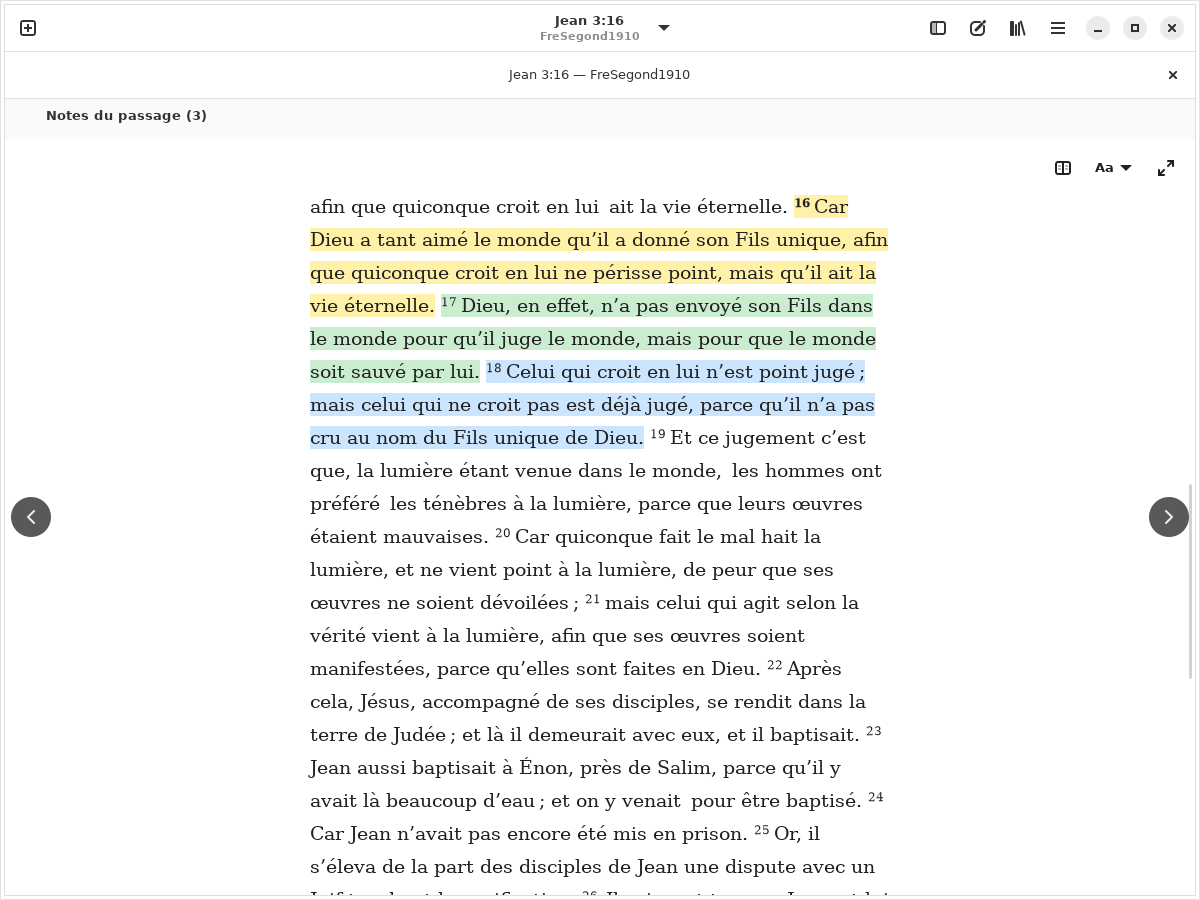
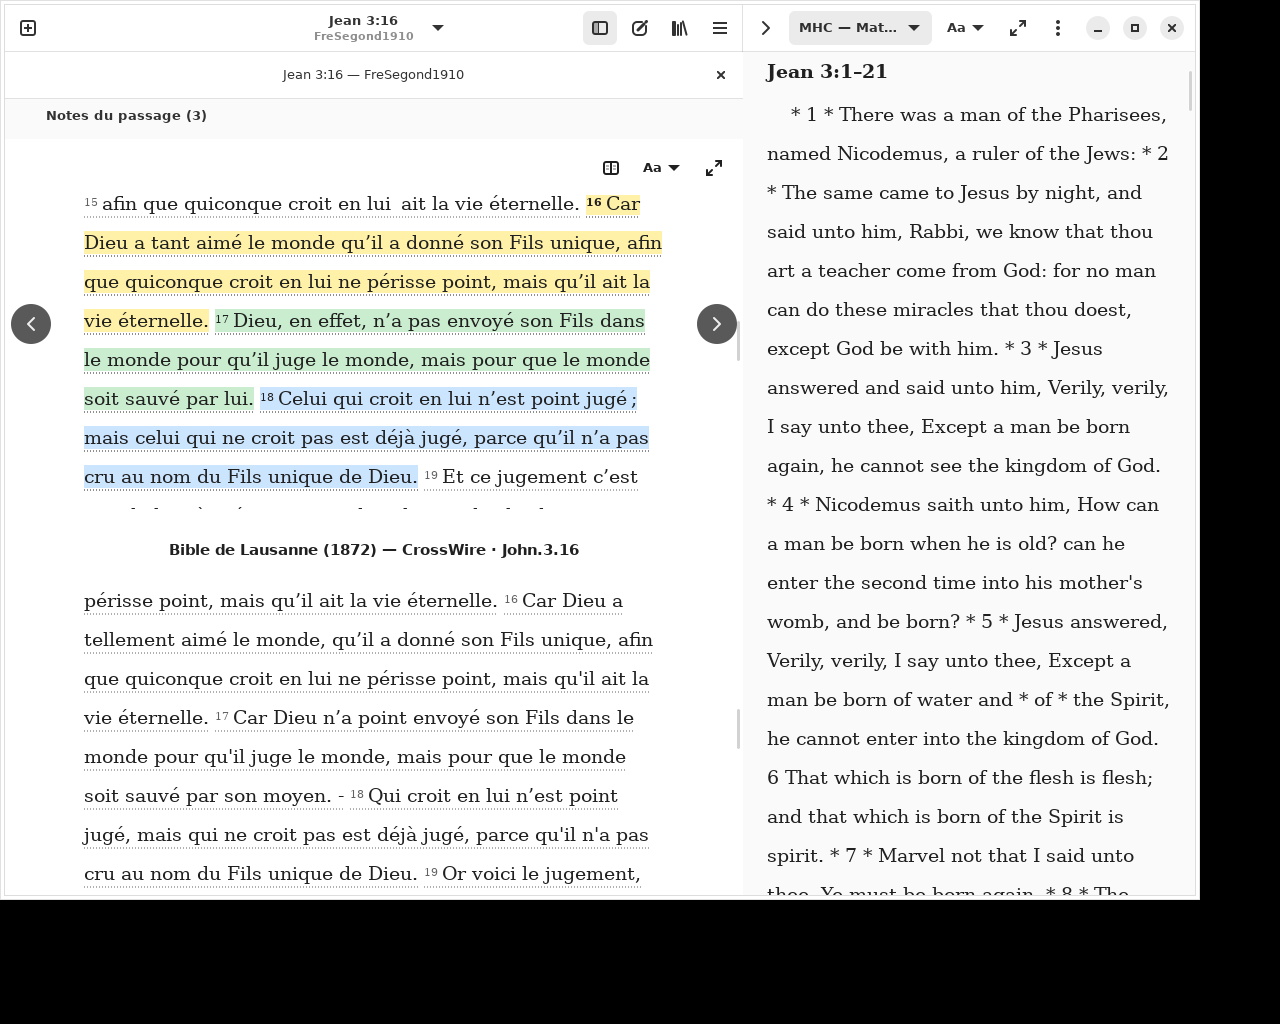
Complete highlight persistence review and preserve multiwindow and commentary rendering

diff --git a/bible/immersion.py b/bible/immersion.py
@@ -233,6 +233,11 @@ class Immersion(Gtk.Overlay):
                     first,last=max(page.start,style.start),min(page.end,style.end)
                     if style.kind==kind and last>first:
                         buffer.apply_tag(tag,buffer.get_iter_at_offset(first-page.start),buffer.get_iter_at_offset(last-page.start))
+            from .commentary_format import apply
+            inline=[(s.kind,max(s.start,page.start)-page.start,min(s.end,page.end)-page.start)
+                    for s in plan.document.styles if s.kind in {'hidden','italic','bold','small-caps'}
+                    and s.end>page.start and s.start<page.end]
+            apply(view,inline,p,self.owner.reading_style.palette)
         if self.kind=='bible' and hasattr(self.owner,'highlights'):
             from .highlight_ui import paint
             for view,address in zip(self.views,self.addresses):
@@ -241,11 +246,6 @@ class Immersion(Gtk.Overlay):
                         for span in plan.document.spans if span.end>page.start and span.body<page.end]
                 paint(view,self.owner.highlights,self.source.reader.versification,ranges,p.show_highlights,
                       self.owner.reading_style.manager.get_high_contrast(),self.owner.reading_style.palette)
-            from .commentary_format import apply
-            inline=[(s.kind,max(s.start,page.start)-page.start,min(s.end,page.end)-page.start)
-                    for s in plan.document.styles if s.kind in {'hidden','italic','bold','small-caps'}
-                    and s.end>page.start and s.start<page.end]
-            apply(view,inline,p,self.owner.reading_style.palette)
         self.update_study_indicator()
         self.restore_selection()
         self._updating=False

diff --git a/bible/ui.py b/bible/ui.py
@@ -35,7 +35,12 @@ class Window(Adw.ApplicationWindow):
         self.library = library
         self.store = SessionStore(session_path or library.root.parent / 'session.json')
         self.preferences = Preferences(library.root.parent / 'reading-preferences.json')
-        self.highlights=HighlightStore(library.root.parent/'highlights.json')
+        from weakref import WeakValueDictionary
+        if not hasattr(app,'_highlight_stores'):app._highlight_stores=WeakValueDictionary()
+        path=(library.root.parent/'highlights.json').resolve()
+        self.highlights=app._highlight_stores.get(path)
+        if self.highlights is None:
+            self.highlights=HighlightStore(path);app._highlight_stores[path]=self.highlights
         self.highlights_window=None
         self.reading_style = ReadingStyle(self)
         self.closed = False
@@ -601,6 +606,12 @@ class Window(Adw.ApplicationWindow):
             self.notes_window.refresh()
 
     def refresh_highlights(self):
+        for window in self.get_application().get_windows():
+            if (isinstance(window,Window) and not getattr(window,'closed',True)
+                    and hasattr(window,'view') and window.highlights is self.highlights):
+                window.paint_highlights()
+
+    def paint_highlights(self):
         for tab in self.tabs():tab.update_highlights(self.reading_style.manager.get_high_contrast(),self.reading_style.palette)
         if self.immersion:
             self.immersion.capture_selection();self.immersion.render()

diff --git a/tests/test_highlight_ui.py b/tests/test_highlight_ui.py
@@ -56,3 +56,22 @@ class HighlightUITests(unittest.TestCase):
                 self.assertIn(('Segond','Ps.3.2'),window.highlights.entries)
                 self.assertTrue(panel.status.get_text());panel.close()
             finally:window.close()
+
+    def test_windows_share_marks_and_repaint_without_overwriting_other_verses(self):
+        from bible.ui import Window,Library
+        from bible.highlights import HighlightStore
+        with tempfile.TemporaryDirectory() as directory:
+            installed_fixture(directory);library=Library(Path(directory)/'translations')
+            first=Window(self.app,library);second=Window(self.app,library)
+            first.present();second.present()
+            try:
+                spin();first.active_tab.select_verse('Gen.1.1');first.mark_highlight('yellow')
+                second.active_tab.select_verse('Gen.1.2');second.mark_highlight('blue')
+                expected={('KJV','Gen.1.1'),('KJV','Gen.1.2')}
+                self.assertEqual(set(first.highlights.entries),expected)
+                self.assertEqual(set(second.highlights.entries),expected)
+                self.assertEqual(set(HighlightStore(Path(directory)/'highlights.json').entries),expected)
+                view=first.active_tab.text;buffer=view.get_buffer()
+                tag=buffer.get_tag_table().lookup('highlight-blue')
+                self.assertTrue(buffer.get_iter_at_offset(first.active_tab._marker_ends['Gen.1.2']).has_tag(tag))
+            finally:second.close();first.close()

diff --git a/tests/test_immersion.py b/tests/test_immersion.py
@@ -240,3 +240,19 @@ class ImmersionTests(unittest.TestCase):
                 raise RuntimeError('test interruption')
         self.assertTrue(w.closed)
         self.assertFalse(Path(directory).exists())
+
+    def test_commentary_inline_formatting_survives_highlight_integration(self):
+        with self.profile() as directory:
+            w=self.window(directory);tab=w.active_tab
+            tab.state.commentary='Notes';w.study_button.set_active(True);w.update_navigation();spin()
+            r=self.entered(w,'commentary')
+            from bible.pagination import StyleSpan
+            for address in r.addresses:
+                document=r.stream.plan(address.key).document
+                document.styles=(*document.styles,StyleSpan('hidden',0,1),StyleSpan('italic',1,5))
+            r.render();spin(lambda:r.layout_ready)
+            for view in r.views[:len(r.addresses)]:
+                table=view.get_buffer().get_tag_table()
+                self.assertIsNotNone(table.lookup('source-hidden'))
+                self.assertEqual(table.lookup('source-hidden').props.scale,0)
+                self.assertIsNotNone(table.lookup('source-italic'))

diff --git a/docs/HIGHLIGHTS_27_REVIEW.md b/docs/HIGHLIGHTS_27_REVIEW.md
@@ -86,3 +86,38 @@ Real GTK screenshots: `captures/actions-46-highlight-review.png` and
 not manual GNOME validation. The store/schema and signed channel are unchanged.
 PR #40 still requires review: the public main build intentionally has no Highlight
 action until this dependency is approved and merged. Nothing here is published.
+
+## Final persistence/integration review
+
+The client explicitly authorized completing this review and integration. Before
+integration, the installed signed public 8d3a183 has no bible.highlights module
+and does have the temporary commentary indicator. This distinguishes the channel's
+published code from the client's positive visual observation; their exact local
+build is not remotely inspected and that observation is not discarded.
+
+Current main, including #51/#36 corrections, approved page and reviewed eBible,
+is integrated. Review of version-1 storage confirms atomic replacement, bounded
+validation, preservation of corrupt/future files, explicit backup/merge restore
+and source-system identities. No notes/session/resource format is migrated.
+
+Two concrete integration fixes: windows in the same application/profile now
+share one weakly cached store and repaint after changes, avoiding stale-window
+writes that discard other marks. The existing commentary inline styling stays
+inside each page's render loop, independently of personal Bible highlights;
+this preserves the #51 zero-scale correction and emphasis on both pages.
+Regression tests verify two-window persistence/painting and commentary formatting.
+The original store/schema and its existing tests are reused, not replaced.
+
+Personal marks remain independent from the temporary #45 dotted coverage cue.
+The #46 bar reuses the reviewed store and actual selected translation/system;
+existing candidate-format highlights load without migration or deletion.
+Final test totals, actual real-resource controls and public alpha availability
+are recorded after the combined delivery. Manual GNOME remains separate.
+
+
+Integrated validation: all 154 tests pass, including the two concrete review
+regressions. Real offline Segond marks keep exact source text; hide/show retains
+records; backup/merge and the find list work. Native pointer/keyboard actions
+apply a real second-Bible Calvin/Lausanne mark with the correct frozen source.
+Actual MHC coverage coexists with personal marks, remains when personal marks
+are hidden and survives immersion. Updated actual GTK captures are committed.
